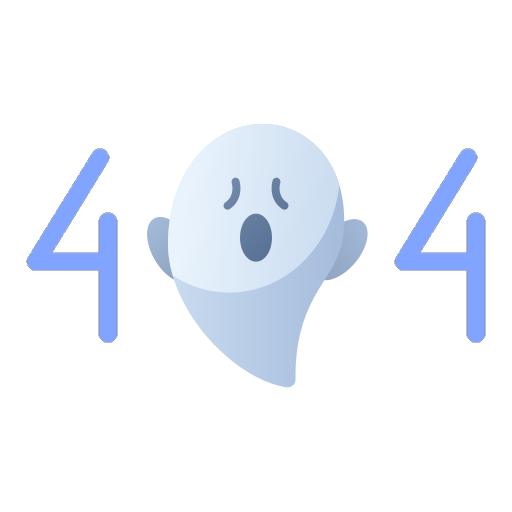
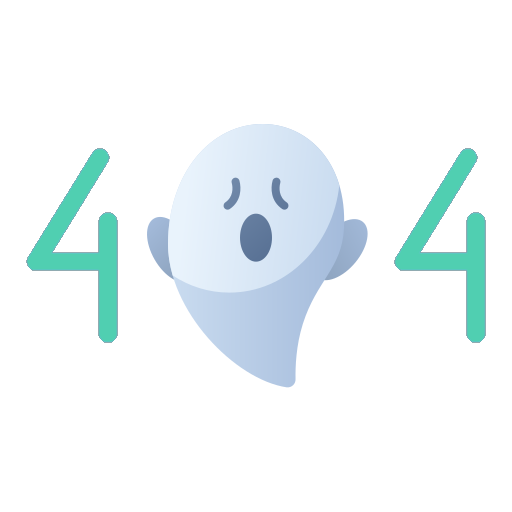
change notfound page color

Changed region(s): [[0.75, 0.2812, 0.9688, 0.6875], [0.0312, 0.2812, 0.25, 0.6875]]

diff --git a/app/not-found.js b/app/not-found.js
@@ -35,7 +35,7 @@ const Styledbtn = styled.div`
   background-color: #fff;
   text-align: center;
   &:hover {
-    background-color: ${({ theme }) => theme.palette.primary.main};
+    background-color: ${({ theme }) => theme.palette.secondary.main};
     > a {
       color: #fff;
     }
@@ -47,7 +47,7 @@ const Styledbtn = styled.div`
   }
 `;
 
-const NotFoundPage = () => {
+export default function NotFoundPage() {
   return (
     <Container>
       <Img404 src="/assets/images/404.png" />
@@ -60,5 +60,3 @@ const NotFoundPage = () => {
     </Container>
   );
 };
-
-export default NotFoundPage;
